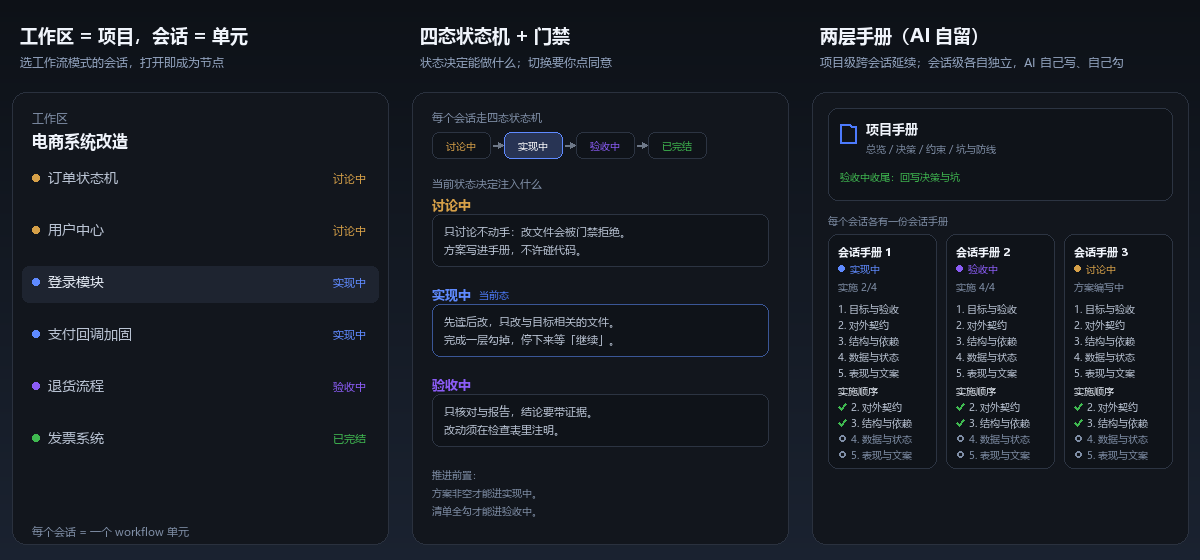
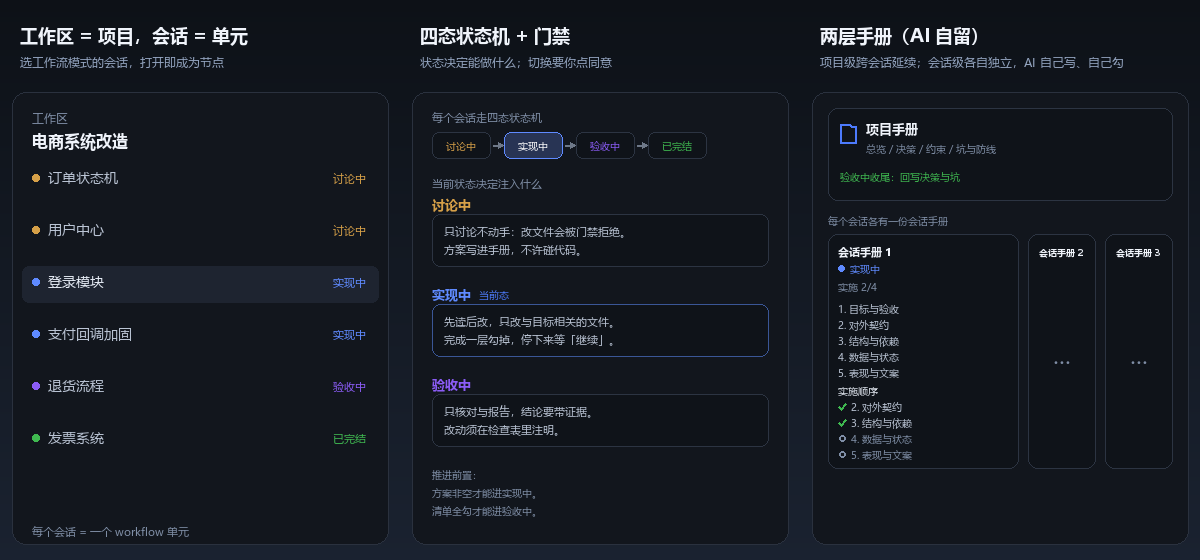
docs(cover): 会话手册 2/3 收窄，内容用省略号居中示意

Changed region(s): [[0.7708, 0.425, 0.9558, 0.8196]]

diff --git a/scripts/make-cover.py b/scripts/make-cover.py
@@ -204,19 +204,29 @@ def build_manual():
     d.text((x0, PANEL_TOP + 122), "每个会话各有一份会话手册", font=note_font, fill=TEXT_MUTED)
 
     sessions = [
-        ("会话手册 1", "实现中", STATE_BRAND, "实施 2/4"),
-        ("会话手册 2", "验收中", STATE_VERIFY, "实施 4/4"),
-        ("会话手册 3", "讨论中", STATE_WARN, "方案编写中"),
+        ("会话手册 1", "实现中", STATE_BRAND, "实施 2/4", True, 190),
+        ("会话手册 2", "验收中", STATE_VERIFY, "", False, 67),
+        ("会话手册 3", "讨论中", STATE_WARN, "", False, 67),
     ]
     layers = ["1. 目标与验收", "2. 对外契约", "3. 结构与依赖", "4. 数据与状态", "5. 表现与文案"]
     checks = [("2. 对外契约", True), ("3. 结构与依赖", True), ("4. 数据与状态", False), ("5. 表现与文案", False)]
     col_font = ImageFont.truetype(FONT_BOLD, 11)
-    card_w, gap = 108, 10
+    tiny_font = ImageFont.truetype(FONT_BOLD, 9)
+    dots_font = ImageFont.truetype(FONT_REG, 22)
     top = PANEL_TOP + 142
-    for index, (title, state, color, note) in enumerate(sessions):
-        left = x0 + index * (card_w + gap)
-        right = left + card_w
+    left = x0
+    for title, state, color, note, detailed, width in sessions:
+        right = left + width
         d.rounded_rectangle([(left, top), (right, top + 234)], radius=10, fill=CODE_BG, outline=CODE_BORDER, width=1)
+        if not detailed:
+            # 后两份只示意"还有很多份"，内容用省略号居中
+            tw = d.textlength(title, font=tiny_font)
+            d.text((left + (width - tw) / 2, top + 12), title, font=tiny_font, fill=TEXT_PRIMARY)
+            dots_w = d.textlength("…", font=dots_font)
+            d.text((left + (width - dots_w) / 2, top + 106), "…", font=dots_font, fill=TEXT_MUTED)
+            left = right + 10
+            continue
+
         d.text((left + 10, top + 10), title, font=col_font, fill=TEXT_PRIMARY)
         d.ellipse([(left + 10, top + 31), (left + 16, top + 37)], fill=color)
         d.text((left + 22, top + 28), state, font=desc_font, fill=color)
@@ -235,6 +245,8 @@ def build_manual():
             else:
                 d.ellipse([(cx + 1, cy + 1), (cx + 7, cy + 7)], outline=TEXT_MUTED, width=2)
             d.text((cx + 13, cy - 2), label, font=item_font, fill=ROW_CHILD_TITLE if done else TEXT_MUTED)
+
+        left = right + 10
 
     return layer
 
